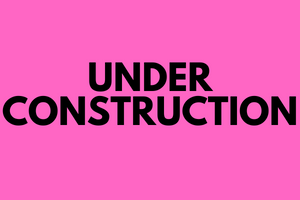
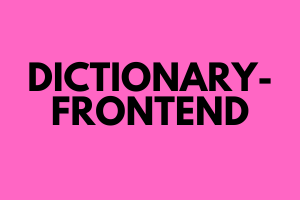
adding projects

Changed region(s): [[0.0, 0.3, 0.99, 0.63]]

diff --git a/index.html b/index.html
@@ -142,11 +142,14 @@
                         <a target="_blank" href="https://github.com/trickytoy/Card_viewer">
                             <img src="imgs/proj/2.png" alt="Forest" width="300" height="200" class="gimg">
                         </a>
-                        <a target="_blank" href="https://github.com/trickytoy/employee_management_system">
-                            <img src="imgs/proj/3.png" alt="Forest" width="300" height="200" class="gimg">
+                        <a target="_blank" href="https://github.com/trickytoy/UNSW-memes-backend">
+                            <img src="imgs/proj/6.png" alt="Forest" width="300" height="200" class="gimg">
                         </a>
-                        <a target="_blank" href="https://www.linkedin.com/in/hritwik-nauriyal-689563233/">
+                        <a target="_blank" href="https://github.com/trickytoy/Dictionary-front-end">
                             <img src="imgs/proj/4.png" alt="Forest" width="300" height="200" class="gimg">
+                        </a>
+                        <a target="_blank" href="https://github.com/trickytoy/Dictionary-back-end">
+                            <img src="imgs/proj/5.png" alt="Forest" width="300" height="200" class="gimg">
                         </a>
                     </div>
                 </section>
